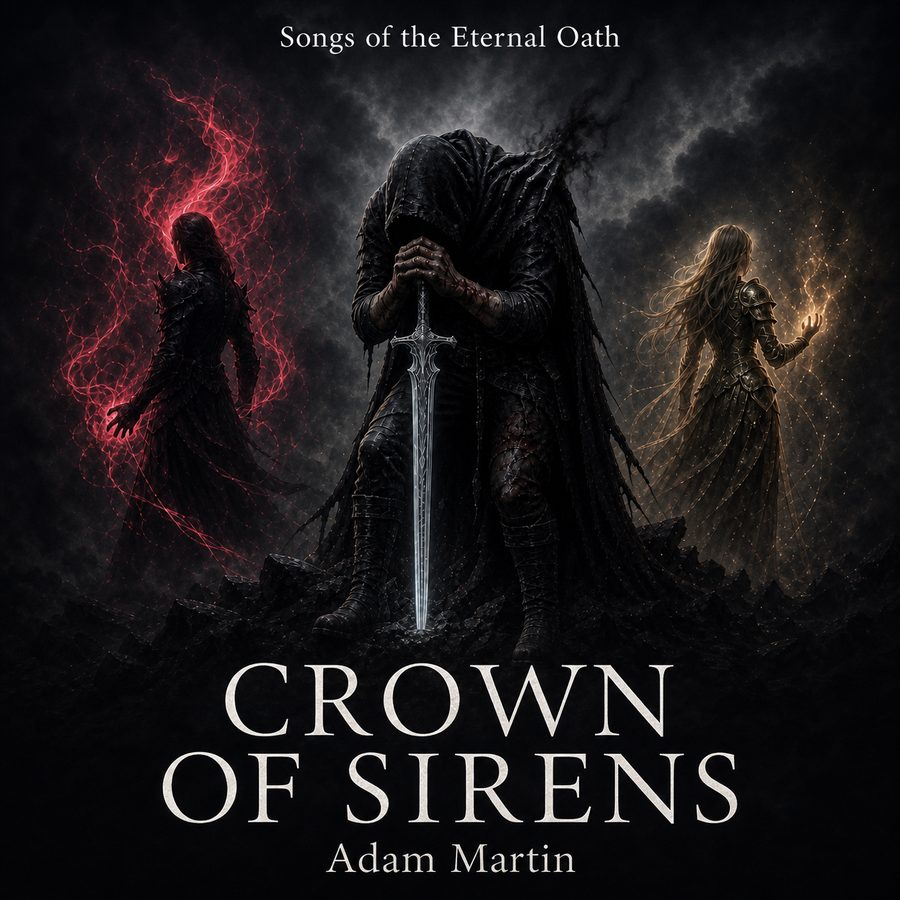
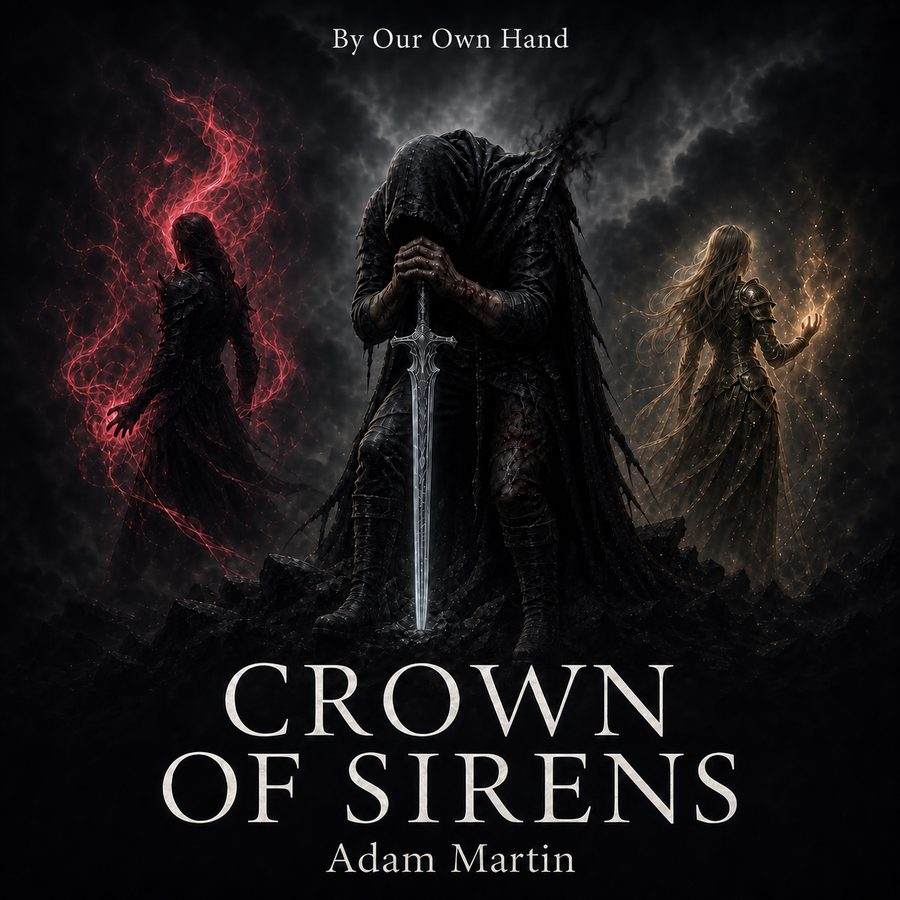
Correct series and title; swap in updated cover
The series is 'By Our Own Hand' (was 'Songs of the Eternal Oath'). The book title stays 'Crown of Sirens'. Eyebrow now reads 'By Our Own Hand · Book One' with 'Crown of Sirens' as the h1. Cover image updated to the new version with 'By Our Own Hand' at the top.

Claude-Session: https://claude.ai/code/session_01Rgp6LVR5qmq64LZ1eoDZWf

diff --git a/index.html b/index.html
@@ -5,15 +5,15 @@
 <meta name="viewport" content="width=device-width,initial-scale=1,viewport-fit=cover">
 <meta name="theme-color" content="#0C0C0F">
 <meta name="color-scheme" content="dark light">
-<meta name="description" content="By Our Own Hand — draft audiobook by Adam Martin, for editing and feedback. Book One of Songs of the Eternal Oath.">
-<meta property="og:title" content="By Our Own Hand">
-<meta property="og:description" content="Draft audiobook — Songs of the Eternal Oath, Book One. Written by Adam Martin.">
+<meta name="description" content="Crown of Sirens — draft audiobook by Adam Martin, for editing and feedback. Book One of By Our Own Hand.">
+<meta property="og:title" content="Crown of Sirens">
+<meta property="og:description" content="Draft audiobook — By Our Own Hand, Book One. Written by Adam Martin.">
 <meta property="og:type" content="music.album">
 <meta property="og:image" content="./cover.jpg">
[2 lines of base64/hex data omitted]
 <link rel="apple-touch-icon" href="./cover.jpg">
 <style>html,body{margin:0;padding:0}img{max-width:100%}[hidden]{display:none!important}</style>
-<title>By Our Own Hand</title>
+<title>Crown of Sirens</title>
 <style>
 :root {
   /* Dark palette is the default — matches the cover art. */
@@ -636,10 +636,10 @@ footer {
 
 <div class="wrap">
   <header>
-    <div class="cover"><img src="./cover.jpg" alt="By Our Own Hand cover"></div>
+    <div class="cover"><img src="./cover.jpg" alt="Crown of Sirens cover"></div>
     <div>
-      <div class="eyebrow">Songs of the Eternal Oath · Book One</div>
-      <h1>By Our Own Hand</h1>
+      <div class="eyebrow">By Our Own Hand · Book One</div>
+      <h1>Crown of Sirens</h1>
       <p class="byline">Written by Adam Martin · Read by AI-assisted tools</p>
       <p class="draft-note">Draft manuscript · for editing and feedback</p>
     </div>
@@ -726,7 +726,7 @@ footer {
   <div class="np-body">
     <div class="np-cover" id="npCover" role="button" tabindex="0" aria-label="Flip cover for chapter details">
       <div class="np-cover-inner">
-        <div class="np-face np-face-front"><img src="./cover.jpg" alt="By Our Own Hand cover"></div>
+        <div class="np-face np-face-front"><img src="./cover.jpg" alt="Crown of Sirens cover"></div>
         <div class="np-face np-face-back">
           <div class="flip-eyebrow" id="flipEyebrow">Chapter</div>
           <div class="flip-rule"></div>
@@ -882,7 +882,7 @@ function updateMediaSession(c) {
     navigator.mediaSession.metadata = new MediaMetadata({
       title: c.title,
       artist: chapterSub(c),
-      album: 'By Our Own Hand · Songs of the Eternal Oath, Book One',
+      album: 'Crown of Sirens · By Our Own Hand, Book One',
       artwork: [
         { src: coverURL, sizes: '900x900', type: 'image/jpeg' },
       ],
@@ -1135,7 +1135,7 @@ document.getElementById('feedbackForm').addEventListener('submit', (e) => {
   const name = document.getElementById('fbName').value.trim() || 'a listener';
   const note = document.getElementById('fbNote').value.trim();
   if (!note) return;
-  const subject = `By Our Own Hand — ${chapter}`;
+  const subject = `Crown of Sirens — ${chapter}`;
   const body = `From: ${name}\nOn: ${chapter}\n\n${note}\n`;
   const href = `mailto:${AUTHOR_EMAIL}?subject=${encodeURIComponent(subject)}&body=${encodeURIComponent(body)}`;
   window.location.href = href;
